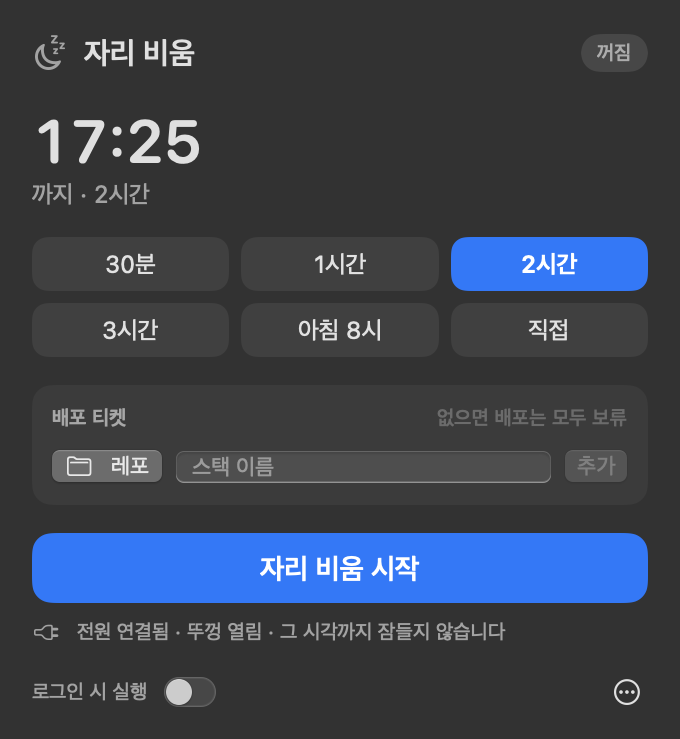
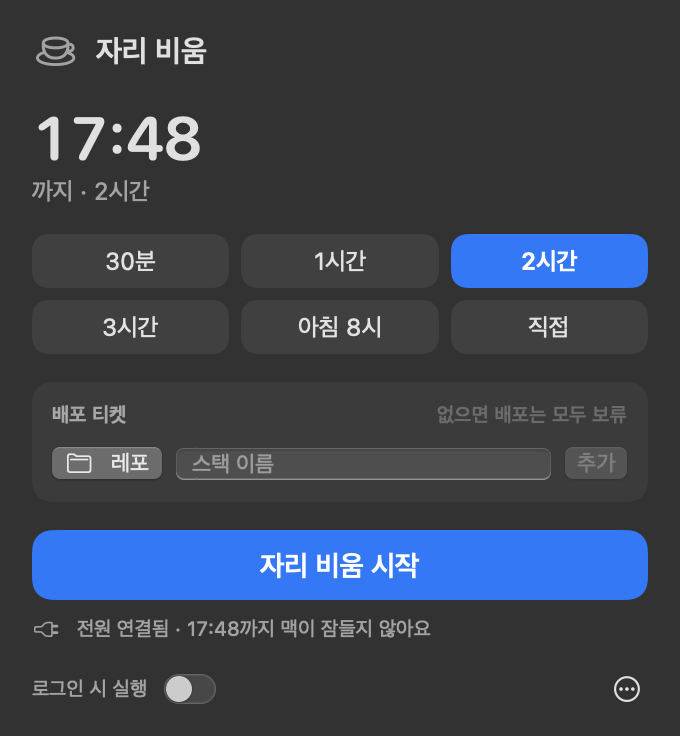
style(macos): 패널 바탕을 투명한 둥근 판으로, 아이콘·표현 정리
- 창 기본 바탕을 걷어 내고 시스템 메뉴처럼 뒤가 비치는 둥근 바탕
- 상단바·머리 아이콘을 찻잔으로 (켜지면 김이 나는 잔)
- 머리의 꺼짐·켜짐 표시 삭제, "뚜껑 열림" 대신 "전원 연결됨 · HH:MM까지 맥이 잠들지 않아요"

diff --git a/macos/Sources/AwayBar/PanelView.swift b/macos/Sources/AwayBar/PanelView.swift
@@ -24,6 +24,8 @@ struct PanelView: View {
         }
         .padding(16)
         .frame(width: 340)
+        .background(PanelBackground())
+        .clipShape(RoundedRectangle(cornerRadius: PanelBackground.radius, style: .continuous))
         .onAppear { model.panelOpen = true; model.refresh() }
         .onDisappear { model.panelOpen = false }
     }
@@ -32,16 +34,11 @@ struct PanelView: View {
 
     private var header: some View {
         HStack(spacing: 8) {
-            Image(systemName: model.active ? "moon.zzz.fill" : "moon.zzz")
+            Image(systemName: model.active ? "cup.and.heat.waves.fill" : "cup.and.saucer")
                 .font(.system(size: 15, weight: .semibold))
                 .foregroundStyle(model.active ? Color.accentColor : .secondary)
             Text("자리 비움").font(.system(size: 15, weight: .semibold))
             Spacer()
-            Text(model.active ? "켜짐" : "꺼짐")
-                .font(.caption.weight(.medium))
-                .foregroundStyle(model.active ? Color.accentColor : .secondary)
-                .padding(.horizontal, 8).padding(.vertical, 3)
-                .background((model.active ? Color.accentColor : Color.primary).opacity(0.12), in: Capsule())
         }
     }
 
@@ -104,10 +101,9 @@ struct PanelView: View {
     }
 
     private var powerRow: some View {
-        let p = model.status?.power
-        let source = p?.source == "ac" ? "전원 연결됨" : p?.source == "battery" ? "배터리" : "전원 확인 안 됨"
-        let lid = p?.lid == "open" ? "뚜껑 열림" : p?.lid == "closed" ? "뚜껑 닫힘" : "뚜껑 확인 안 됨"
-        return Label("\(source) · \(lid) · 그 시각까지 잠들지 않습니다", systemImage: p?.source == "ac" ? "powerplug" : "battery.50")
+        let ac = model.status?.power.source == "ac"
+        return Label(ac ? "전원 연결됨 · \(endClock)까지 맥이 잠들지 않아요" : "전원 상태를 확인하지 못했어요",
+                     systemImage: ac ? "powerplug" : "questionmark.circle")
             .font(.caption).foregroundStyle(.secondary)
     }
 
@@ -326,4 +322,61 @@ private extension View {
             .padding(10)
             .background(Color.primary.opacity(0.05), in: RoundedRectangle(cornerRadius: 10))
     }
+}
+
+/// 패널 바탕: 시스템 메뉴처럼 뒤가 비치는 둥근 판. 상단바 창의 기본 바탕(불투명에 가까운 재질)은 걷어 낸다.
+struct PanelBackground: View {
+    static let radius: CGFloat = 16
+
+    var body: some View {
+        ZStack {
+            WindowClearer()
+            if #available(macOS 26.0, *) {
+                Color.clear.glassEffect(.regular, in: .rect(cornerRadius: Self.radius, style: .continuous))
+            } else {
+                Material(material: .menu)
+            }
+        }
+    }
+}
+
+private struct Material: NSViewRepresentable {
+    var material: NSVisualEffectView.Material
+    func makeNSView(context: Context) -> NSVisualEffectView {
+        let v = NSVisualEffectView()
+        v.material = material; v.blendingMode = .behindWindow; v.state = .active
+        return v
+    }
+    func updateNSView(_ v: NSVisualEffectView, context: Context) {}
+}
+
+/// 창을 투명하게 하고, 우리 내용을 품지 않은 시스템 바탕 재질 뷰는 숨긴다 (품고 있으면 메뉴 재질로만 바꾼다).
+private struct WindowClearer: NSViewRepresentable {
+    final class Probe: NSView {
+        override func viewDidMoveToWindow() {
+            super.viewDidMoveToWindow()
+            DispatchQueue.main.async { [weak self] in self?.apply() }
+        }
+
+        func apply() {
+            guard let window, let root = window.contentView?.superview ?? window.contentView else { return }
+            // 우리 SwiftUI 내용을 담은 가장 바깥 뷰: 그 안의 재질 뷰(우리 바탕)는 건드리지 않는다
+            var mine: NSView = self
+            while let up = mine.superview, up !== root, !(up is NSVisualEffectView) { mine = up }
+            window.isOpaque = false
+            window.backgroundColor = .clear
+            func walk(_ view: NSView) {
+                if view === mine { return }
+                if let fx = view as? NSVisualEffectView {
+                    if mine.isDescendant(of: fx) { fx.material = .menu; fx.state = .active } else { fx.isHidden = true }
+                }
+                view.subviews.forEach(walk)
+            }
+            walk(root)
+            window.invalidateShadow()
+        }
+    }
+
+    func makeNSView(context: Context) -> Probe { Probe() }
+    func updateNSView(_ v: Probe, context: Context) { DispatchQueue.main.async { v.apply() } }
 }

diff --git a/macos/Sources/AwayBar/Model.swift b/macos/Sources/AwayBar/Model.swift
@@ -63,7 +63,7 @@ final class AwayModel: ObservableObject {
         if AwayClient.findPython() == nil { return "python3를 찾지 못했습니다" }
         guard let st = status else { return message ?? "상태를 읽는 중" }
         if st.power.source == "battery" { return "배터리로 동작 중입니다. 전원을 연결하면 시작할 수 있습니다" }
-        if st.power.lid == "closed" { return "뚜껑이 닫혀 있습니다" }
+        if st.power.lid == "closed" { return "맥북이 닫혀 있습니다. 화면을 연 채로 시작해 주세요" }
         if !chosenEnd.isAllowed(from: now) { return "끝 시각은 지금부터 12시간 안이어야 합니다" }
         return nil
     }

diff --git a/macos/Sources/AwayBar/AwayBarApp.swift b/macos/Sources/AwayBar/AwayBarApp.swift
@@ -19,7 +19,7 @@ struct AwayBarApp: App {
         MenuBarExtra {
             PanelView(model: model)
         } label: {
-            Image(systemName: model.active ? "moon.zzz.fill" : "moon.zzz")
+            Image(systemName: model.active ? "cup.and.heat.waves.fill" : "cup.and.saucer")
             if model.active { Text(Format.remaining(model.remaining)).monospacedDigit() }
         }
         .menuBarExtraStyle(.window)
